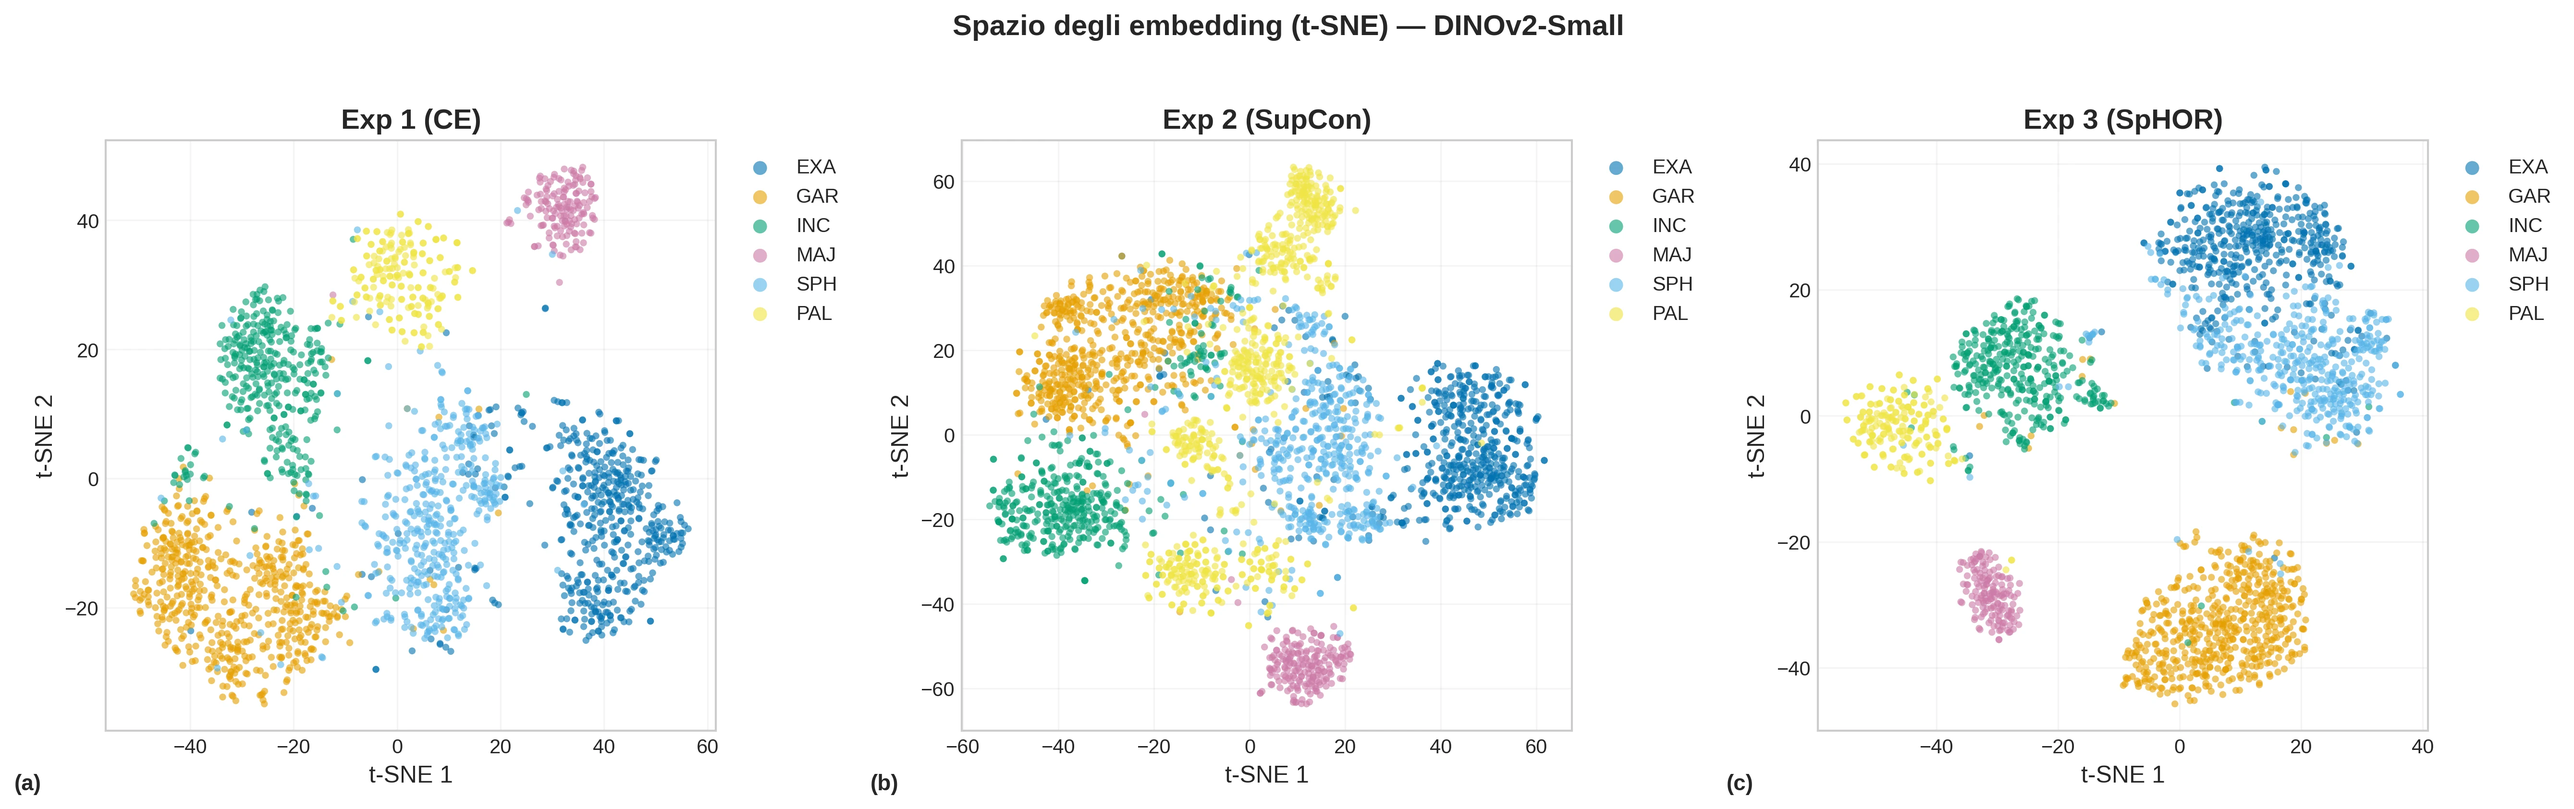
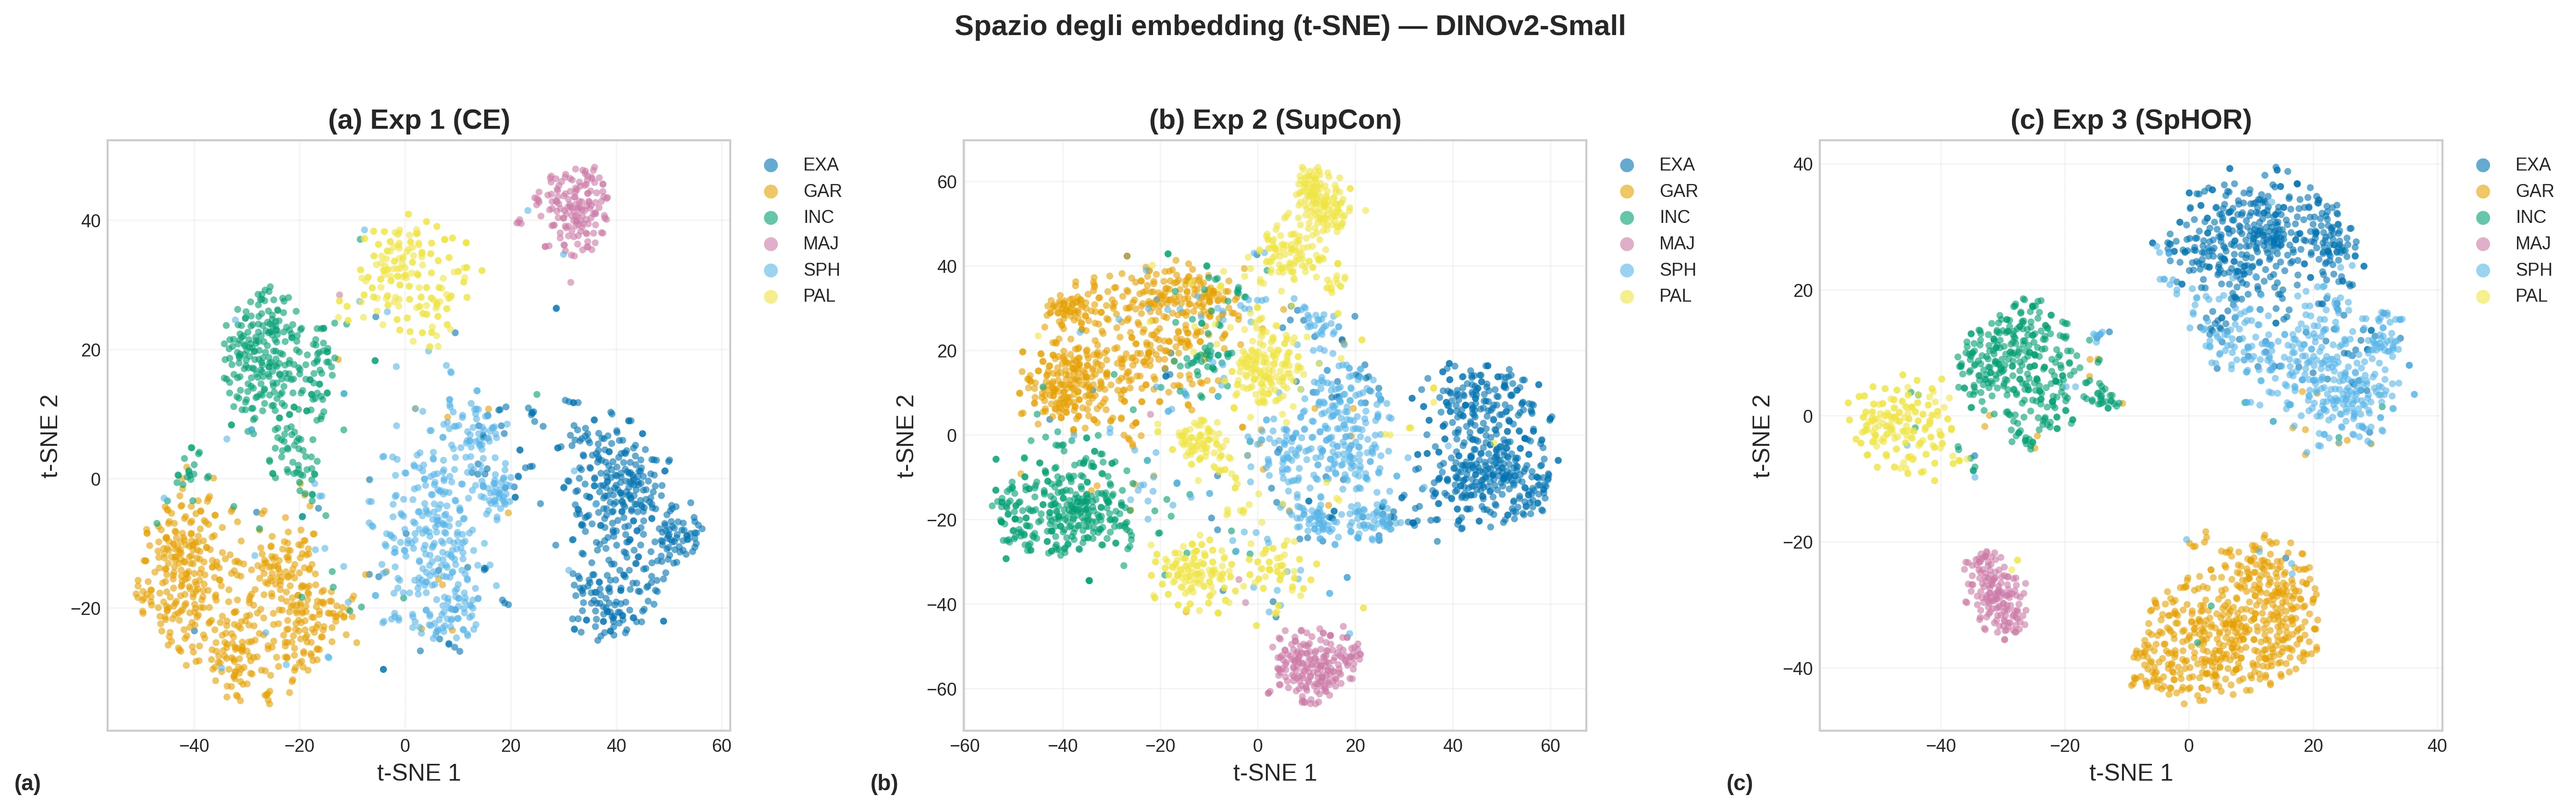
fix: builder figure tesi, label leggibili e layout corretti
- per_species_f1: label fontsize 8, legenda esterna
- t-SNE: pannelli (a)/(b)/(c) nei titoli, tick e legende leggibili
- osr 1vs2: ylim [0,1] (la barra 0.42 era tagliata), via voce 'caso'
- spotlight: callout dentro gli assi
- closed_vs_open: freccia accorciata
- frontend/public/figures risincronizzate (37 png+webp)

diff --git a/backend/scripts/generate_thesis_figures.py b/backend/scripts/generate_thesis_figures.py
@@ -447,8 +447,7 @@ def fig_tsne_comparison():
         _, _, tsne, cnames = load_embeddings(exp, model)
         if tsne is None:
             ax.text(0.5, 0.5, "Embeddings N/A", ha="center", va="center", transform=ax.transAxes)
-            ax.set_title(EXP_LABELS[exp], fontweight="bold")
-            ax.text(-0.15, -0.1, f"({chr(97 + j)})", transform=ax.transAxes, fontsize=11, fontweight="bold")
+            ax.set_title(f"({chr(97 + j)}) {EXP_LABELS[exp]}", fontweight="bold")
             continue
 
         labels = np.load(EXPERIMENTS / f"{EXP_PREFIXES[exp]}_{model}" / "embeddings" / "labels.npy")
@@ -462,10 +461,11 @@ def fig_tsne_comparison():
             c = SPECIES_COLORS.get(name, CB[int(cls) % len(CB)])
             ax.scatter(tsne[mask, 0], tsne[mask, 1], c=c, label=sn, s=12, alpha=0.6, edgecolors="none", rasterized=True)
 
-        ax.set_title(EXP_LABELS[exp], fontweight="bold")
+        ax.set_title(f"({chr(97 + j)}) {EXP_LABELS[exp]}", fontweight="bold")
         ax.set_xlabel("t-SNE 1")
         ax.set_ylabel("t-SNE 2")
-        ax.legend(loc="upper left", bbox_to_anchor=(1.01, 1), markerscale=2, framealpha=0.9)
+        ax.tick_params(labelsize=9)
+        ax.legend(loc="upper left", bbox_to_anchor=(1.01, 1), markerscale=2, framealpha=0.9, fontsize=9)
         ax.text(-0.15, -0.1, f"({chr(97 + j)})", transform=ax.transAxes, fontsize=11, fontweight="bold")
 
     fig.suptitle("Spazio degli embedding (t-SNE) — DINOv2-Small", fontweight="bold", y=1.02)
@@ -483,7 +483,7 @@ def fig_per_species_f1():
     best = {"exp1": "resnet50", "exp2": "dinov2_base", "exp3": "dinov2_base"}
     order = ["O. exaltata", "O. garganica", "O. incubacea", "O. majellensis", "O. sphegodes", "O. sphegodes_Palena"]
     short = [short_species(s) for s in order]
-    fig, ax = plt.subplots(figsize=(10, 5))
+    fig, ax = plt.subplots(figsize=(11, 5.5))
     n_exp, n_sp = len(best), len(order)
     width = 0.8 / n_exp
     x = np.arange(n_sp)
@@ -514,7 +514,7 @@ def fig_per_species_f1():
                 f"{v:.2f}±{s:.2f}",
                 ha="center",
                 va="bottom",
-                fontsize=6,
+                fontsize=8,
                 rotation=90,
             )
 
@@ -522,7 +522,7 @@ def fig_per_species_f1():
     ax.set_xticklabels(short)
     ax.set_ylabel("F1")
     ax.set_title("F1 per specie — miglior modello per esperimento", fontweight="bold")
-    ax.legend(loc="lower right", framealpha=0.9)
+    ax.legend(bbox_to_anchor=(1.01, 1), loc="upper left", framealpha=0.9)
     ax.set_ylim(0, 1.1)
     fig.tight_layout()
     _save(fig, "per_species_f1.png")
@@ -720,8 +720,8 @@ def fig_tsne_exp8_multimodel():
         ax.set_title(label, fontweight="bold")
         ax.set_xlabel("t-SNE 1")
         ax.set_ylabel("t-SNE 2")
-        ax.legend(loc="upper left", bbox_to_anchor=(1.01, 1), markerscale=2, framealpha=0.9)
-        ax.text(-0.15, -0.1, f"({chr(97 + j)})", transform=ax.transAxes, fontsize=11, fontweight="bold")
+        ax.tick_params(labelsize=9)
+        ax.legend(loc="upper left", bbox_to_anchor=(1.01, 1), markerscale=2, framealpha=0.9, fontsize=9)
 
     fig.suptitle("Exp 3 (SpHOR): t-SNE per Architecture", fontweight="bold", y=1.02)
     fig.tight_layout()
@@ -772,7 +772,7 @@ def fig_spotlight_convnext_osr():
     ax.annotate(
         "DINOv2-Base: 0.875\n(Ensemble detector)",
         xy=(3 + (MODELS.index("dinov2_base") - len(MODELS) / 2 + 0.5) * width, 0.875),
-        xytext=(4.5, 0.80),
+        xytext=(2.1, 0.97),
         fontsize=10,
         fontweight="bold",
         color="#D55E00",

diff --git a/backend/app/figures/osr.py b/backend/app/figures/osr.py
@@ -139,8 +139,8 @@ def _dual_1vs2(fig_dir: Path) -> list[Path]:
     ax.set_xticks(x)
     ax.set_xticklabels(ARCH_LABELS, fontsize=8)
     ax.set_ylabel("AUROC Ensemble (supplemento)")
-    ax.set_ylim(0.48, 1.0)
-    ax.axhline(0.5, color="gray", linestyle="--", linewidth=1, label="caso")
+    ax.set_ylim(0, 1.0)
+    ax.axhline(0.5, color="gray", linestyle="--", linewidth=1)
     ax.set_title("OSR: 1 vs 2 novel (AUROC Ensemble)", fontsize=12, fontweight="bold")
     ax.legend(fontsize=8)
     ax.grid(axis="y", alpha=0.3)
@@ -203,7 +203,7 @@ def _closed_vs_open(fig_dir: Path) -> list[Path]:
         ax.annotate(
             "ConvNeXt-T tiene\nin entrambi",
             xy=(f1_4["convnext_tiny"], d4["convnext_tiny"].get("Ensemble", 0.85)),
-            xytext=(0.55, 0.92),
+            xytext=(0.78, 0.94),
             fontsize=8,
             arrowprops=dict(arrowstyle="->", color="black", lw=1),
             bbox=dict(boxstyle="round,pad=0.3", fc="white", ec="gray", alpha=0.9),
